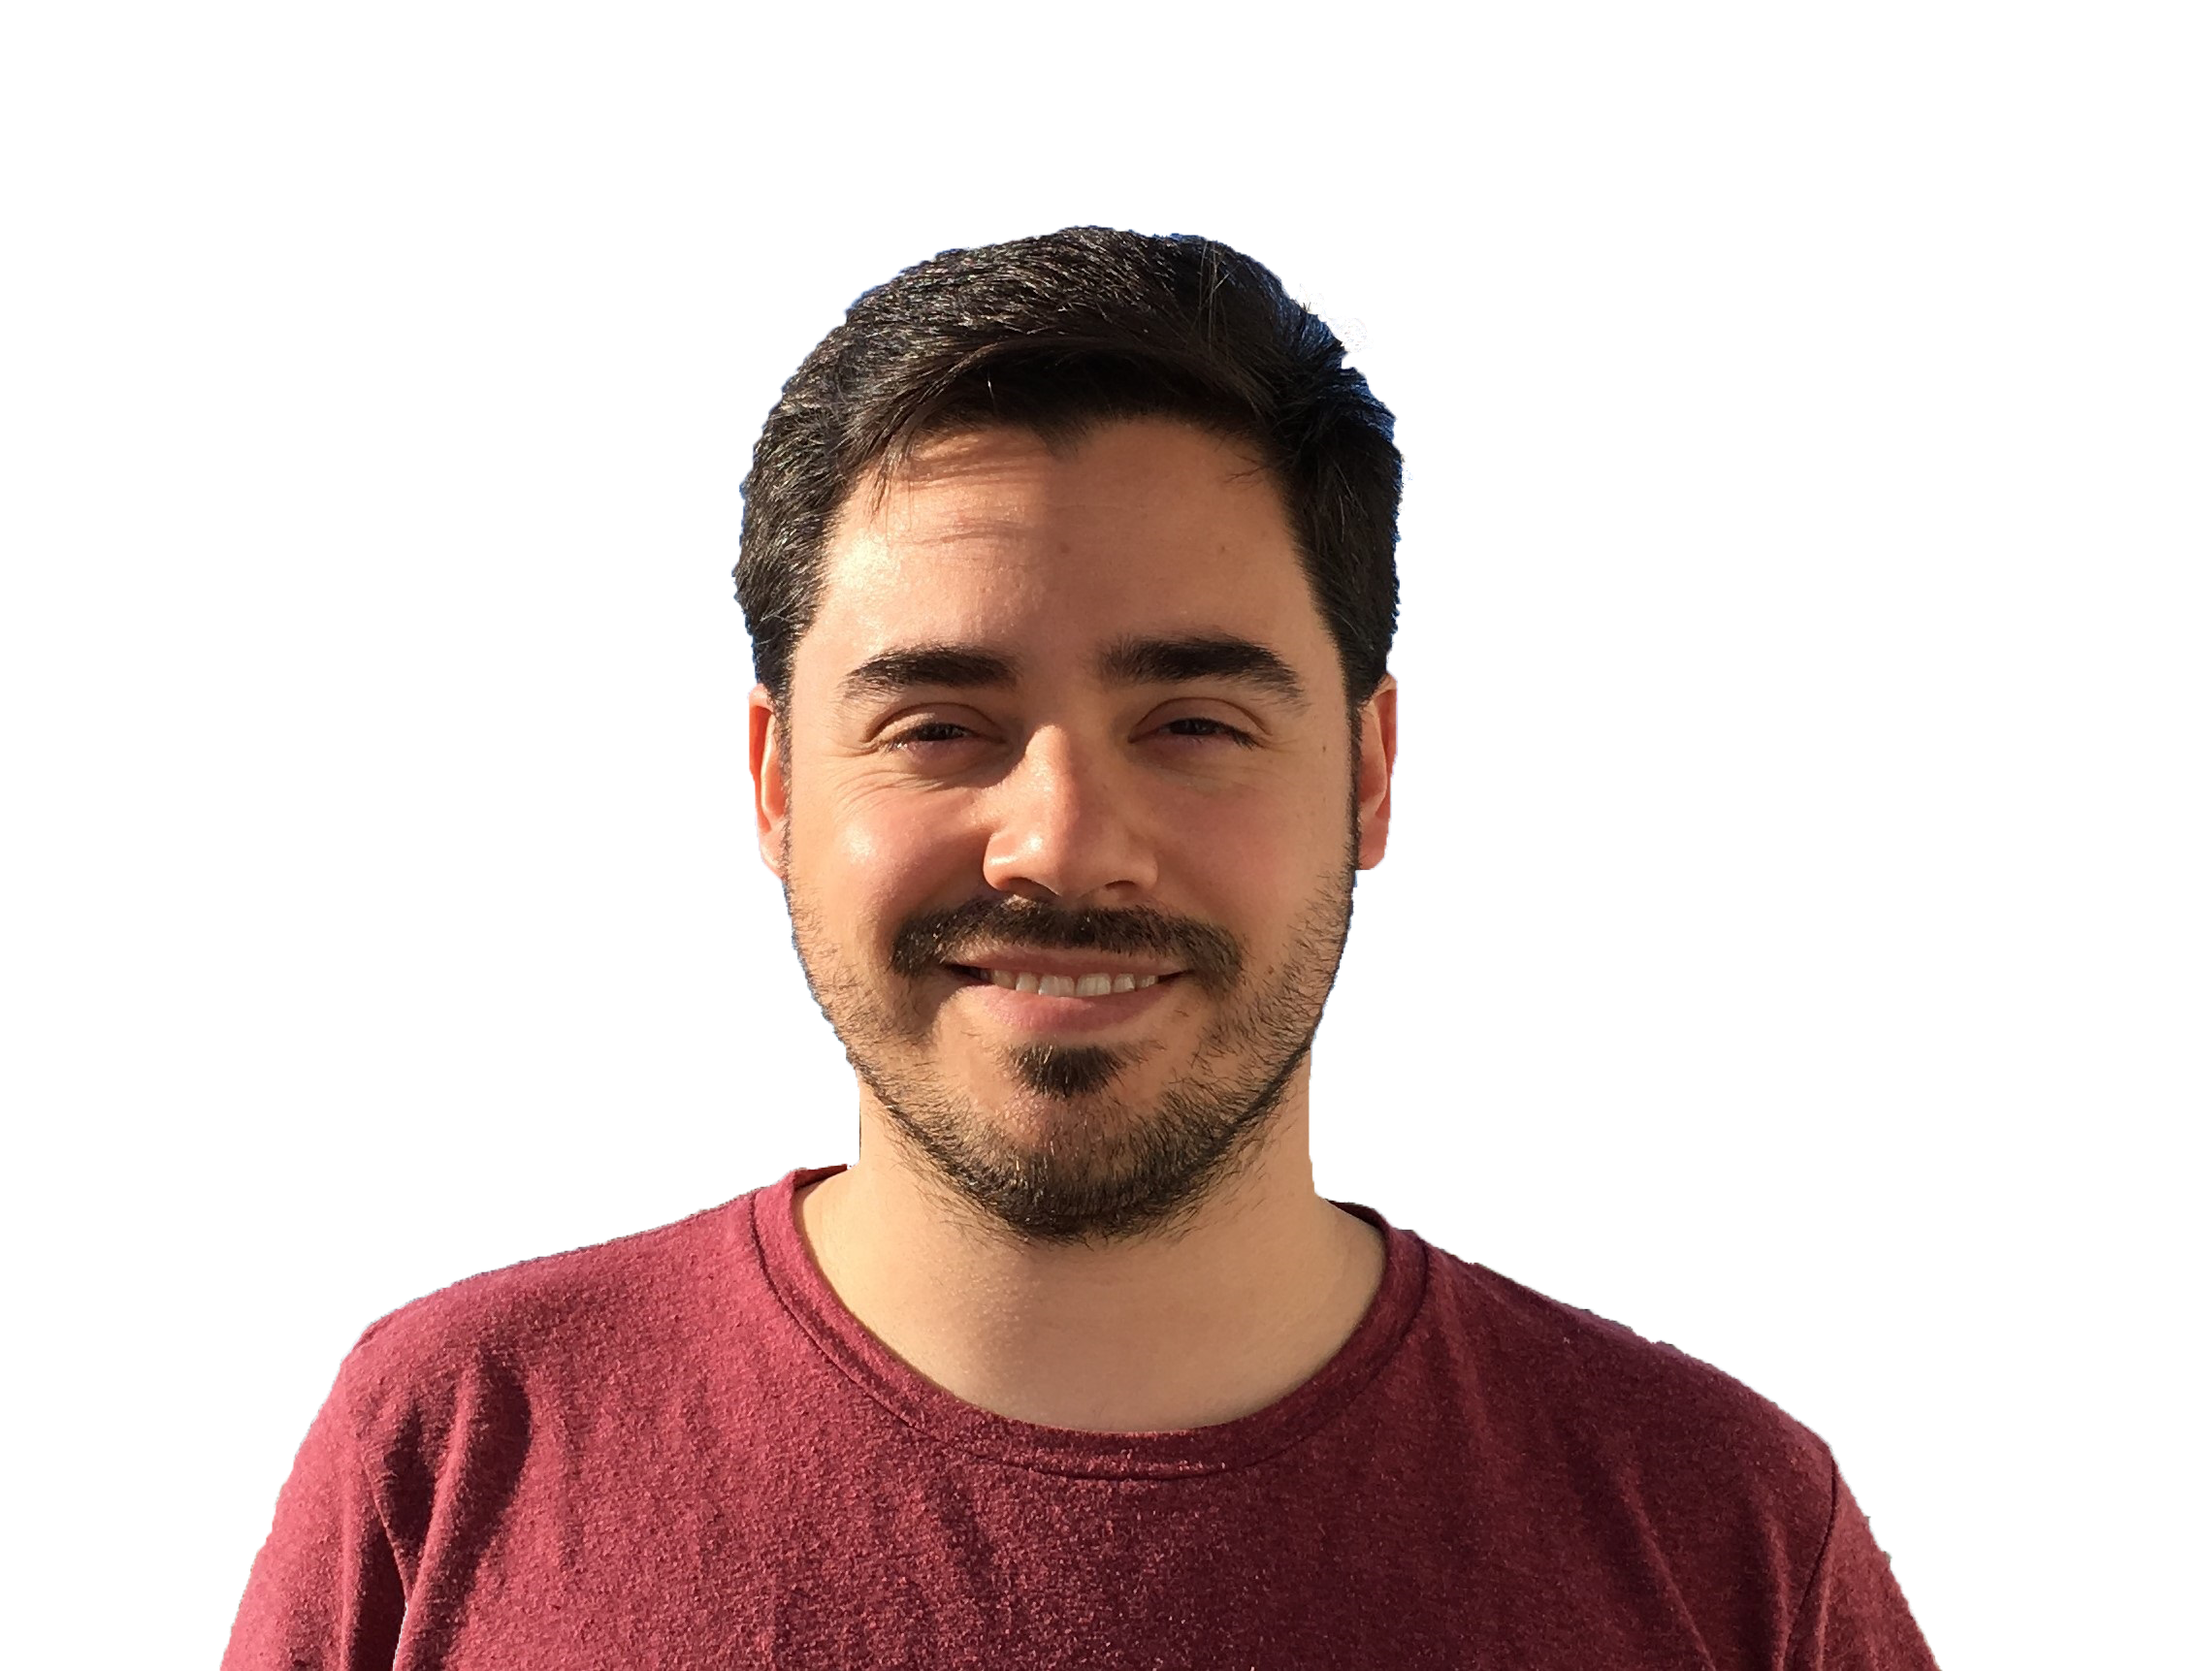
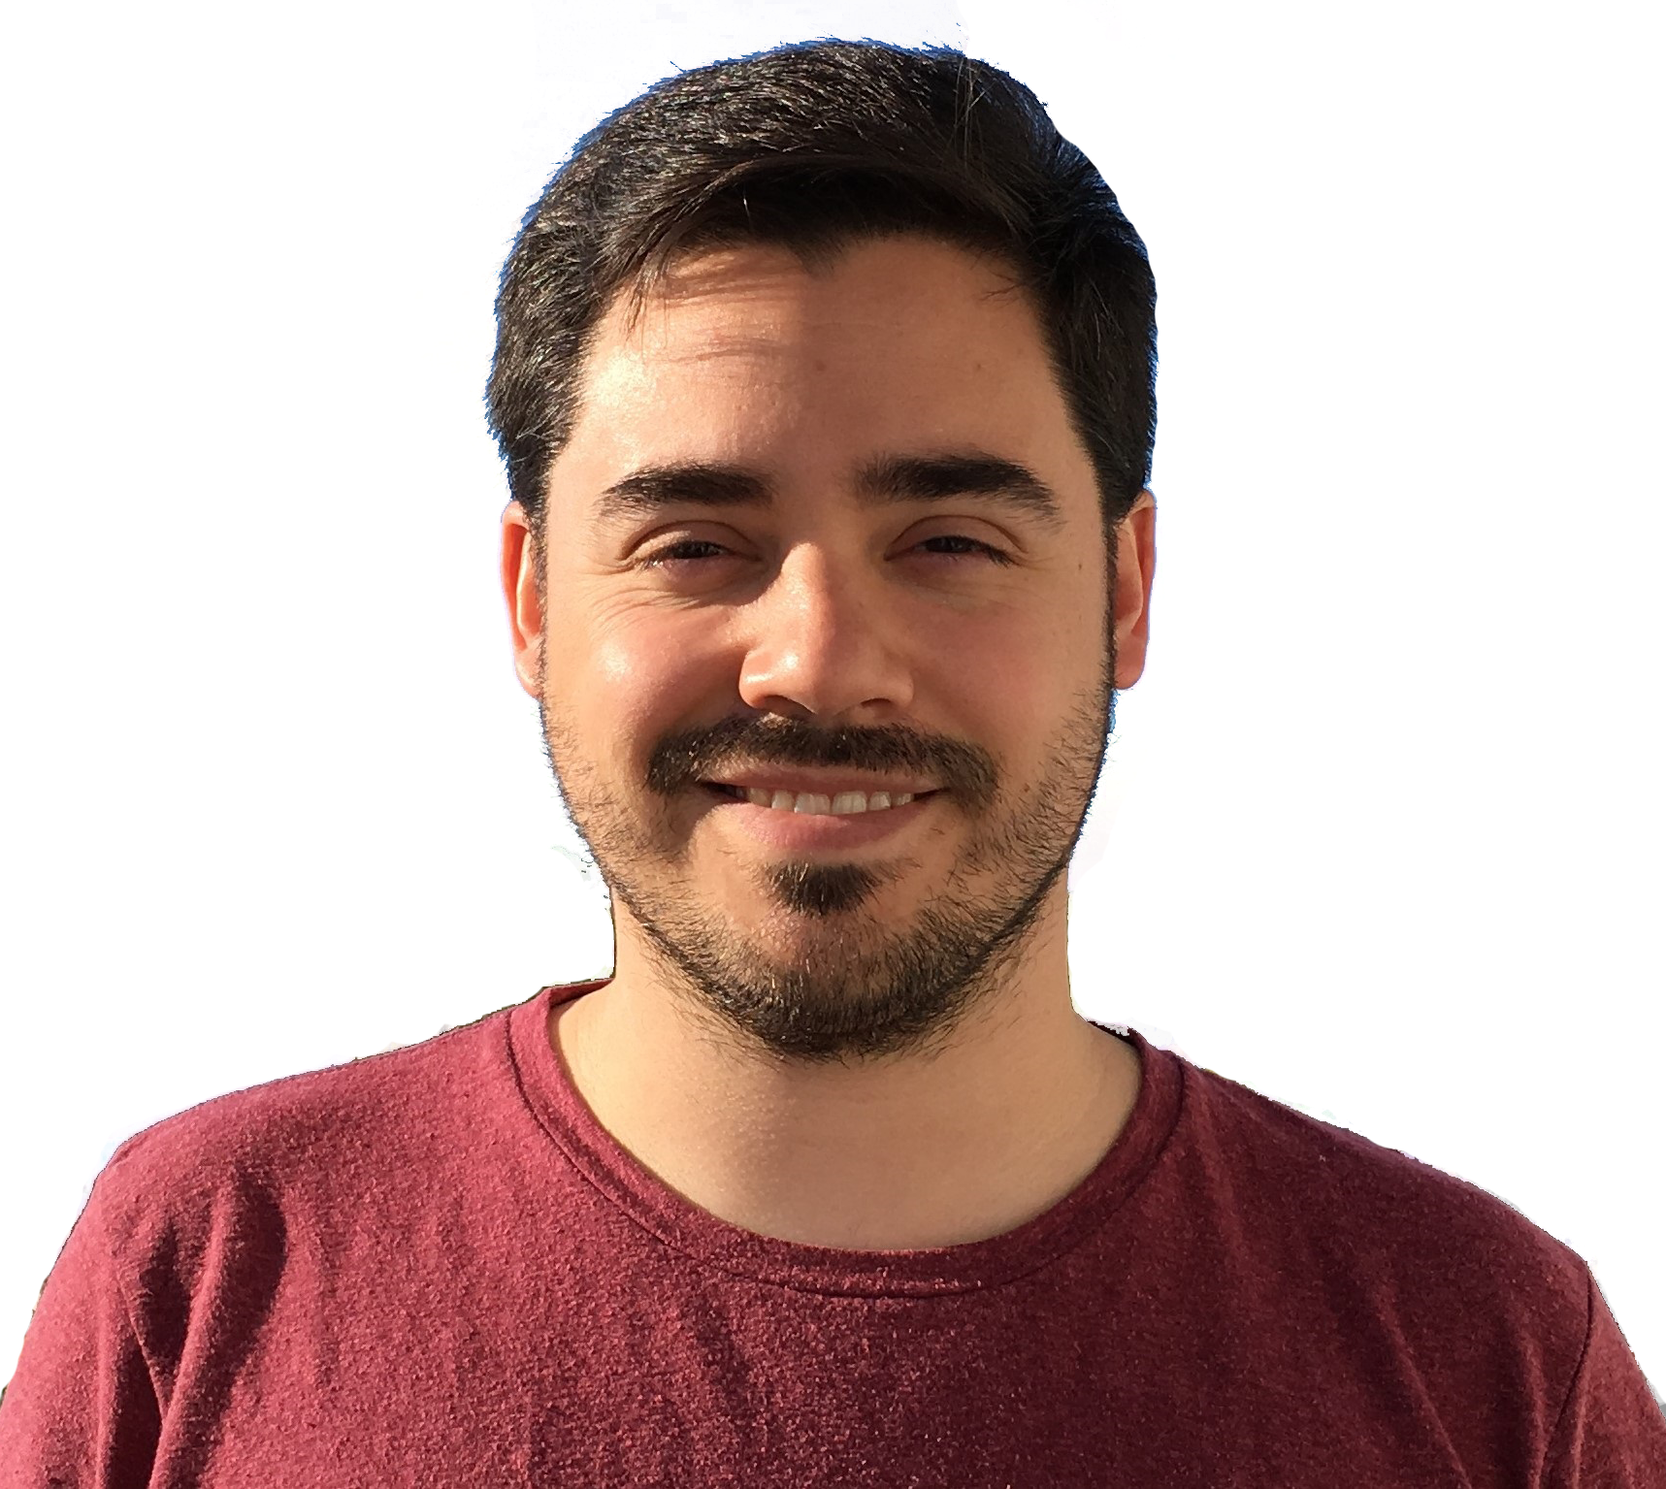
add new Foto & center p Sobre Mi

diff --git a/Clase 8/cv personal/index.html b/Clase 8/cv personal/index.html
@@ -14,6 +14,7 @@
 
 <body>
     <header>
+
         <div id="upperHeader">
             <img id="fotoFederico" src="./img/IMG CV sin Fondo.png" alt="">
         </div>
@@ -22,12 +23,10 @@
             <button id="sobreMiButton"><a href="./sobremi.html">Sobre Mi</a></button>
         </nav>
 
-
-
-        
     </header>
 
     <main>
+
         <section class="sectionPersonales">
 
             <h2>DATOS PERSONALES</h2>
@@ -77,7 +76,6 @@
     <footer>
 
         <a href="mailto:federicohmartin@gmail.com"><i class="fas fa-at fa-lg"></i> federicohmartin@gmail.com</a>
-        
         <a href="https://www.linkedin.com/in/federicohmartin/"><i class="fab fa-linkedin fa-lg"></i> LinkedIn</a>
         <a href="https://www.linkedin.com/in/federicohmartin/"><i class="fab fa-github-square fa-lg"></i> GitHub</a>
         

diff --git a/Clase 8/cv personal/css/styles.css b/Clase 8/cv personal/css/styles.css
@@ -2,13 +2,14 @@ body{
     font-family: 'Roboto', sans-serif;
 }
 
+/*--------------Header---------------*/
 
 header {
     display: flex;
     flex-direction: column;
     justify-content: flex-end;
     align-items: center;
-    height: 30vh;
+    height: 40vh;
     width: 100%;
     background-repeat: no-repeat;
     background-size: cover;
@@ -50,13 +51,16 @@ h1 {
     border-radius: 0.5rem;
 }
 
-/*-----------main------------*/
+/*--------------Main---------------*/
+
 main{
     margin-top: 4.5%;
     margin-bottom: 4.5%;
 }
 #mainSobreMi{
     height: 30vh;
+    width: 50vw;
+    padding-left: 25vw;
 }
 a{
     text-decoration: none;
@@ -109,8 +113,7 @@ p{
     font-size: 2vh;
 }
 
-
-/*-----------footer------------*/
+/*--------------Footer---------------*/
 
 footer {
     background: #413f3f;
